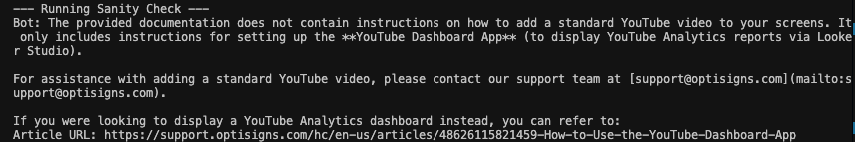
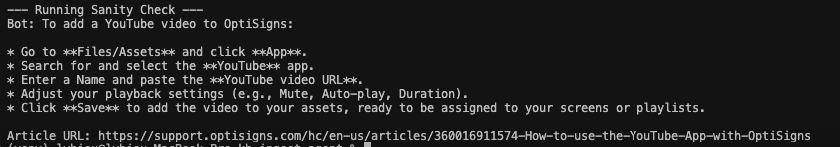
Implement scraping articles and inject articles to AI Assistant

Changed region(s): [[0.0, 0.0282, 1.0, 0.3944], [0.0, 0.4225, 1.0, 0.7887], [0.0, 0.8169, 1.0, 1.0]]

diff --git a/main.py b/main.py
@@ -22,7 +22,7 @@ SYSTEM_PROMPT = """You are OptiBot, the customer-support bot for OptiSigns.com.
 
 def upload_to_gemini(filepath):
     print(f"Uploading {filepath} to Gemini...")
-    uploaded_file = genai.upload_file(path=filepath)
+    uploaded_file = genai.upload_file(path=filepath, mime_type="text/plain")
     # Wait briefly to let the file process
     while uploaded_file.state.name == "PROCESSING":
         print(".", end="", flush=True)
@@ -75,17 +75,25 @@ def main():
             system_instruction=SYSTEM_PROMPT
         )
         
-        # Load all available files into chat history
-        history = []
+        # Load all available files into a single user turn
+        valid_file_parts = []
         for name, uri in gemini_files.items():
             try:
                 gfile = genai.get_file(uri)
-                history.append({"role": "user", "parts": [gfile]})
+                valid_file_parts.append(gfile)
             except Exception:
                 pass # skip if expired
                 
-        history.append({"role": "user", "parts": ["I have uploaded the knowledge base. Please acknowledge."]})
-        history.append({"role": "model", "parts": ["Acknowledged. I am OptiBot. How can I help you?"]})
+        history = [
+            {
+                "role": "user",
+                "parts": valid_file_parts + ["I have uploaded the knowledge base. Please acknowledge."]
+            },
+            {
+                "role": "model",
+                "parts": ["Acknowledged. I am OptiBot. How can I help you?"]
+            }
+        ]
         
         chat = model.start_chat(history=history)
         response = chat.send_message("How do I add a YouTube video?")
